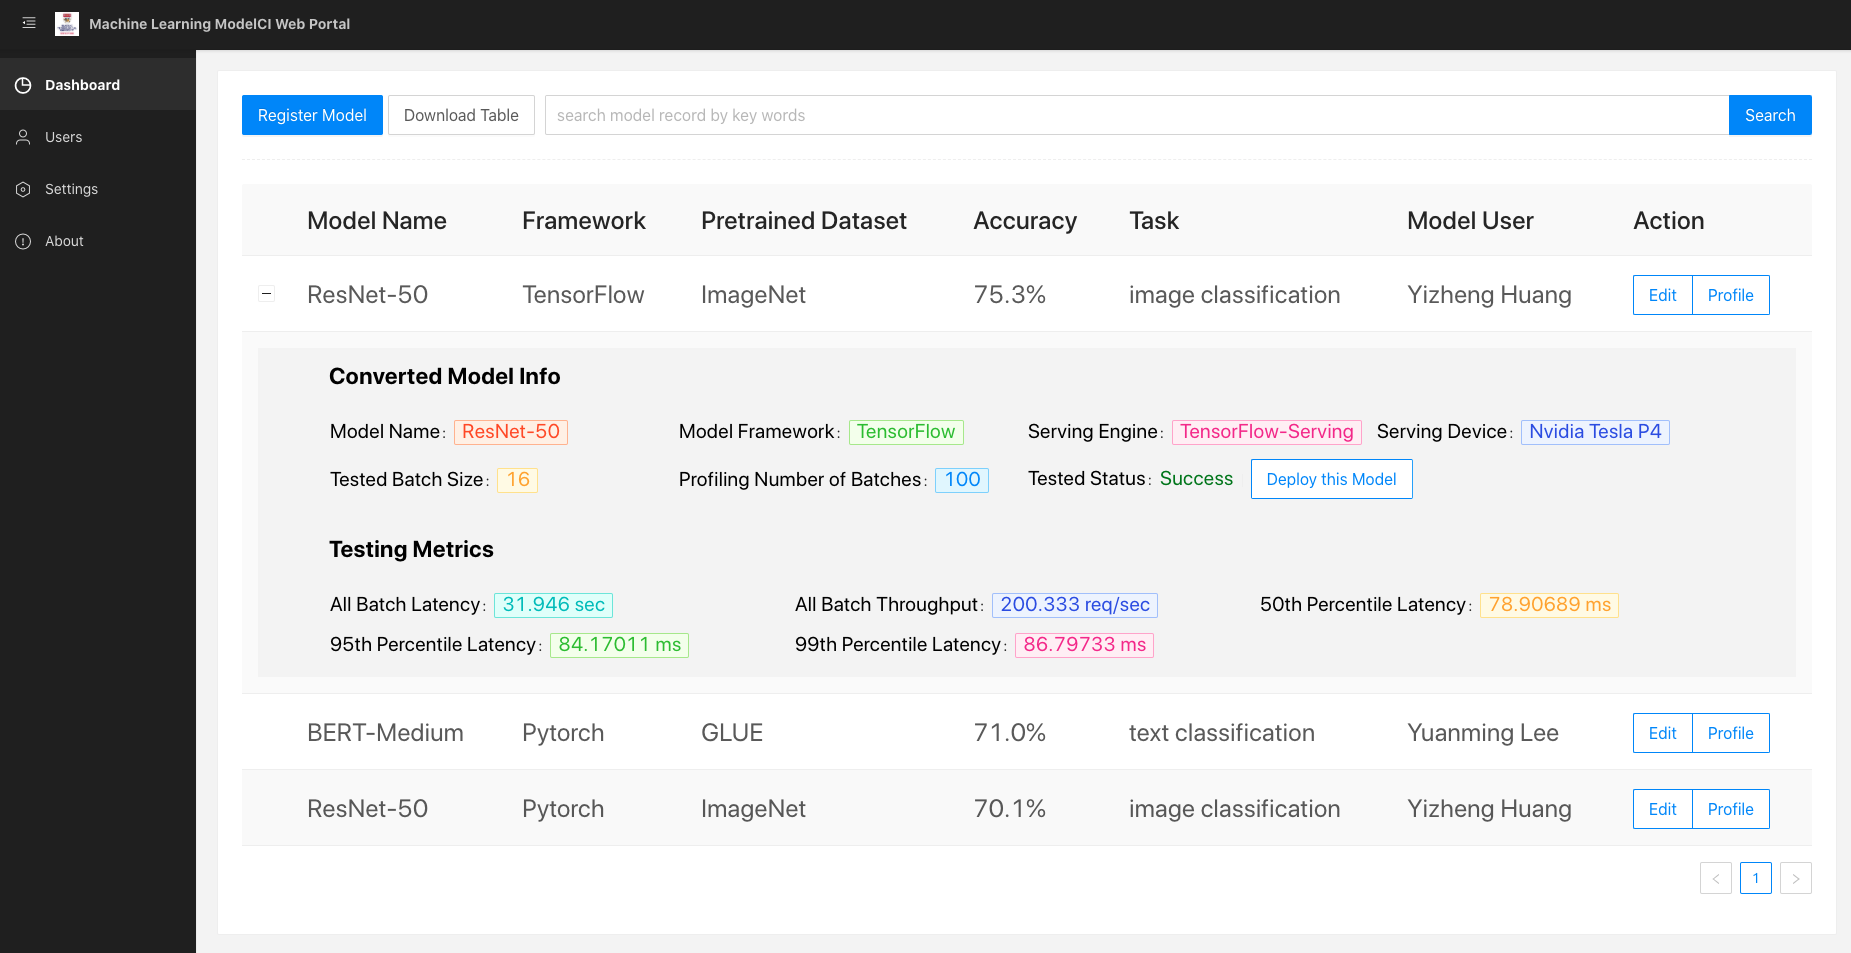
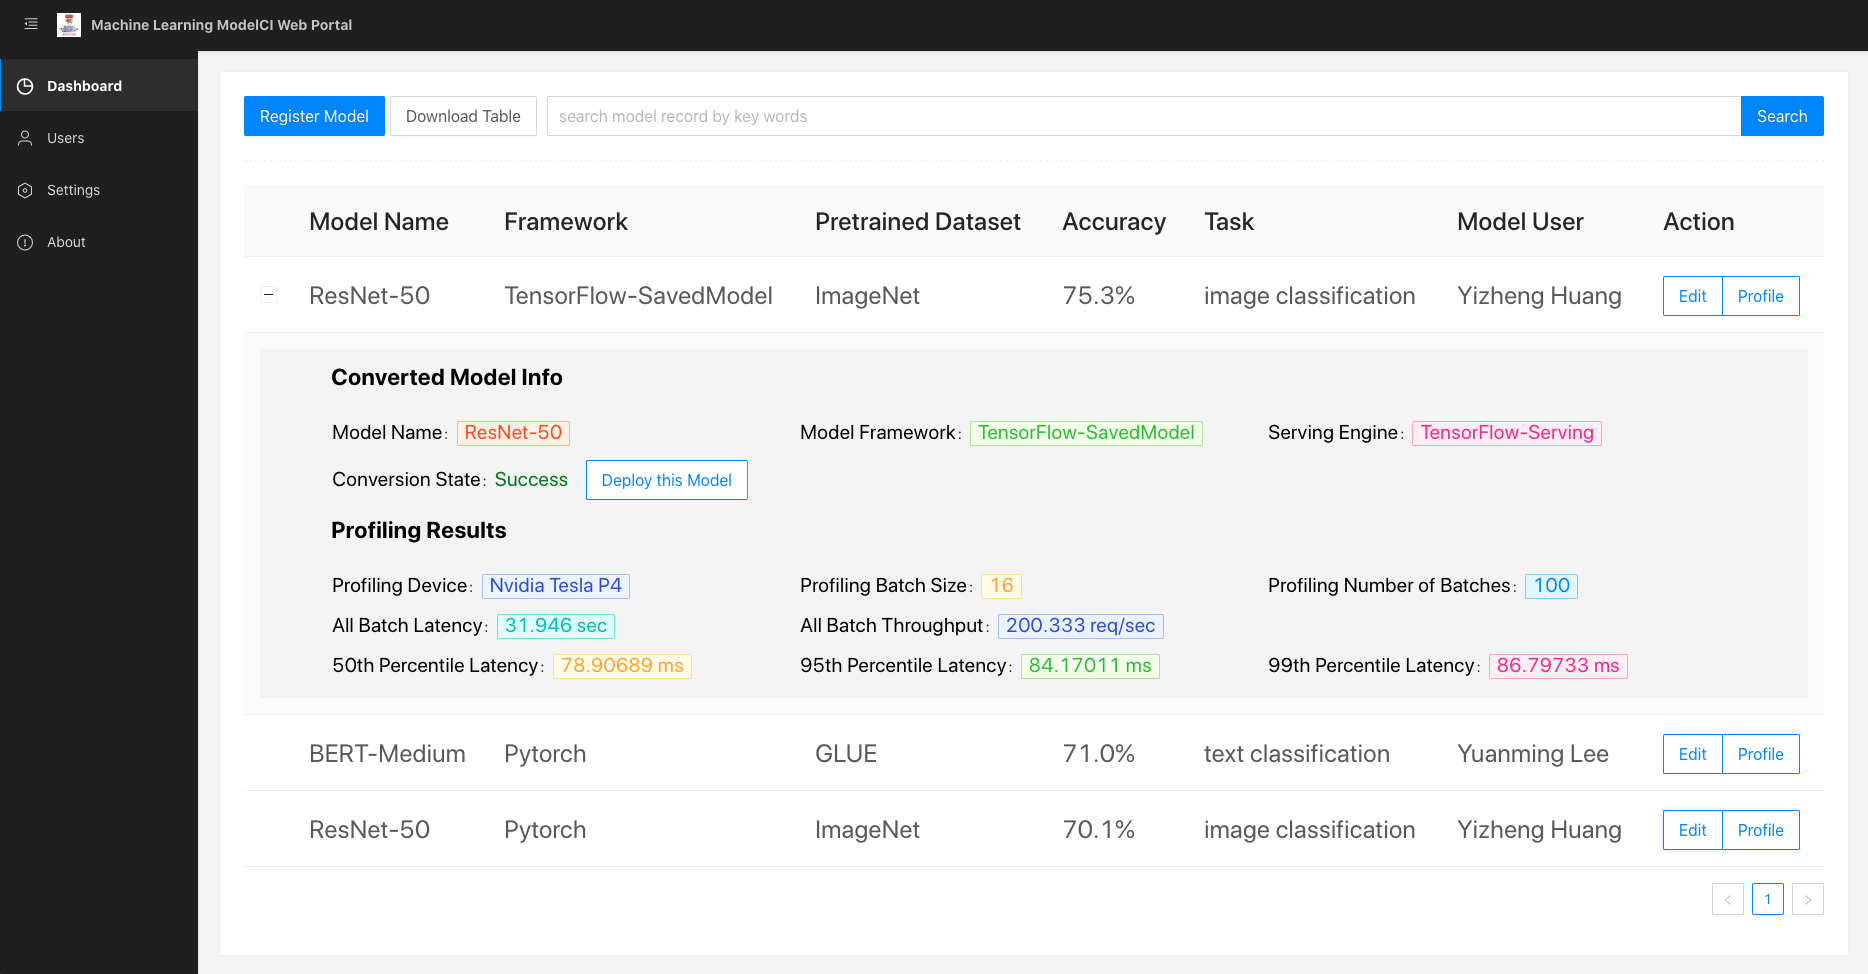
🚑 quickfix:

diff --git a/frontend/src/pages/Dashboard/index.tsx b/frontend/src/pages/Dashboard/index.tsx
@@ -149,7 +149,7 @@ const data = [
     key: 1,
     modelId: '734d623fd24',
     modelName: 'ResNet-50',
-    modelFramework: 'TensorFlow',
+    modelFramework: 'TensorFlow-SavedModel',
     modelAcc: '75.3%',
     modelEngine: 'TensorFlow-Serving',
     modelTask: 'image classification',
@@ -260,7 +260,7 @@ const Dashboard = () => {
             <div style={{ backgroundColor: '#F5F5F5', padding: '10px' }}>
               <Descriptions
                 style={{ width: '92%', margin: '0 auto' }}
-                column={4}
+                column={3}
                 size="middle"
                 title={
                   <a
@@ -347,6 +347,7 @@ const Dashboard = () => {
                   </Tag>
                 </Descriptions.Item>
                 <Descriptions.Item
+                  span={2}
                   label={
                     <a
                       style={{
@@ -355,7 +356,58 @@ const Dashboard = () => {
                         color: 'black',
                       }}
                     >
-                      Serving Device
+                      Conversion State
+                    </a>
+                  }
+                >
+                  <a
+                    style={{
+                      fontSize: 20,
+                      whiteSpace: 'nowrap',
+                      color: 'green',
+                    }}
+                  >
+                    Success
+                  </a>
+                  <Divider type="vertical" />
+                  <Radio.Group size="large">
+                    <Radio.Button
+                      value="large"
+                      onClick={() => {
+                        console.log('You clicked Deploy');
+                      }}
+                    >
+                      Deploy this Model
+                    </Radio.Button>
+                  </Radio.Group>
+                </Descriptions.Item>
+              </Descriptions>
+              <Descriptions
+                style={{ width: '92%', margin: '0 auto' }}
+                column={3}
+                size="small"
+                title={
+                  <a
+                    style={{
+                      whiteSpace: 'nowrap',
+                      fontSize: 23,
+                      color: 'black',
+                    }}
+                  >
+                    Profiling Results
+                  </a>
+                }
+              >
+                <Descriptions.Item
+                  label={
+                    <a
+                      style={{
+                        whiteSpace: 'nowrap',
+                        fontSize: 20,
+                        color: 'black',
+                      }}
+                    >
+                      Profiling Device
                     </a>
                   }
                 >
@@ -379,7 +431,7 @@ const Dashboard = () => {
                         color: 'black',
                       }}
                     >
-                      Tested Batch Size
+                      Profiling Batch Size
                     </a>
                   }
                 >
@@ -419,58 +471,6 @@ const Dashboard = () => {
                   </Tag>
                 </Descriptions.Item>
                 <Descriptions.Item
-                  span={2}
-                  label={
-                    <a
-                      style={{
-                        whiteSpace: 'nowrap',
-                        fontSize: 20,
-                        color: 'black',
-                      }}
-                    >
-                      Tested Status
-                    </a>
-                  }
-                >
-                  <a
-                    style={{
-                      fontSize: 20,
-                      whiteSpace: 'nowrap',
-                      color: 'green',
-                    }}
-                  >
-                    Success
-                  </a>
-                  <Divider type="vertical" />
-                  <Radio.Group size="large">
-                    <Radio.Button
-                      value="large"
-                      onClick={() => {
-                        console.log('You clicked Deploy');
-                      }}
-                    >
-                      Deploy this Model
-                    </Radio.Button>
-                  </Radio.Group>
-                </Descriptions.Item>
-              </Descriptions>
-              <Descriptions
-                style={{ width: '92%', margin: '0 auto', marginTop: '20px' }}
-                column={3}
-                size="small"
-                title={
-                  <a
-                    style={{
-                      whiteSpace: 'nowrap',
-                      fontSize: 23,
-                      color: 'black',
-                    }}
-                  >
-                    Testing Metrics
-                  </a>
-                }
-              >
-                <Descriptions.Item
                   label={
                     <a
                       style={{
@@ -495,6 +495,7 @@ const Dashboard = () => {
                   </Tag>
                 </Descriptions.Item>
                 <Descriptions.Item
+                  span={2}
                   label={
                     <a
                       style={{
